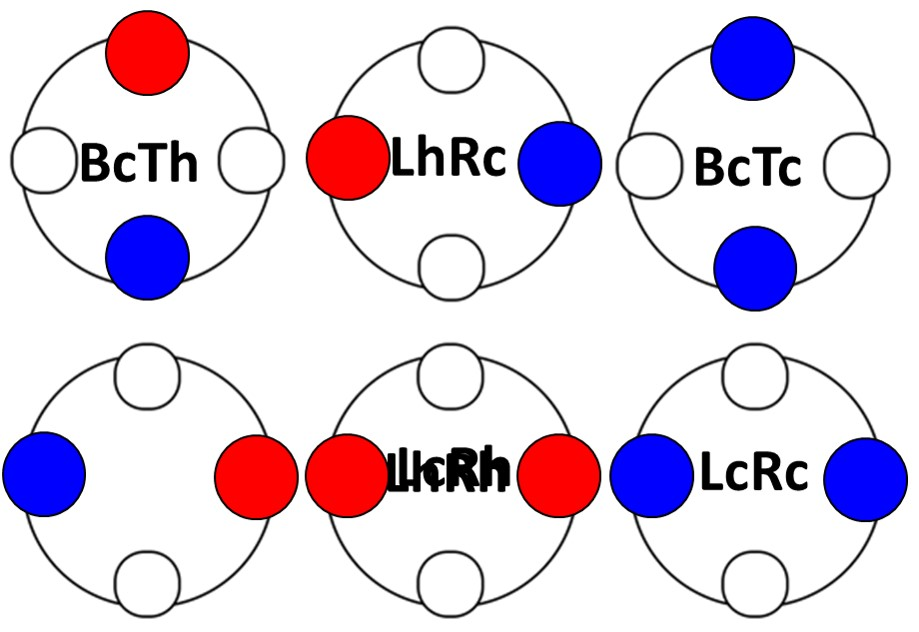
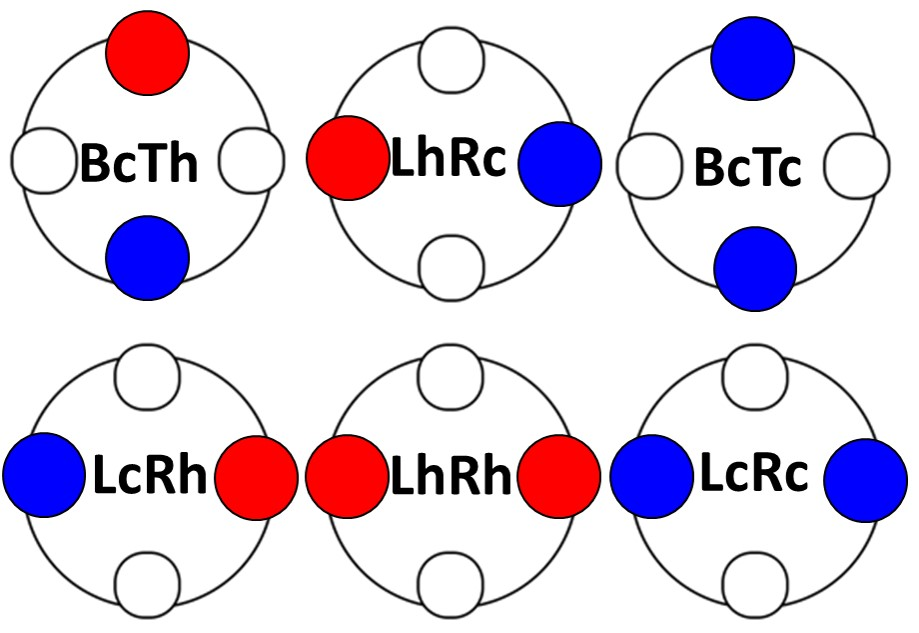
some new figures

Changed region(s): [[0.3961, 0.6915, 0.5789, 0.7816], [0.0914, 0.6915, 0.2437, 0.7816]]

diff --git a/elsarticle-template-num_simon_20180201.tex b/elsarticle-template-num_simon_20180201.tex
@@ -389,9 +389,9 @@ In our design, each element in a neighboring or opposite pair could be triggered
 \begin{figure}[tp]
   \centering
   %\subfigure\cite{]{\label{fig:fold1}\includegraphics[width=0.45\textwidth]{images/study_setup.png}}
-  \includegraphics[width=0.9\columnwidth]{img/fig9.pdf}
+  \includegraphics[width=0.9\columnwidth]{img/newNeighborPatterns.jpg}
   %\subfigure\cite{]{\label{fig:fold2}\includegraphics[width=0.45\textwidth]{images/wo_assembly.png}}
-  \caption{Patterns (with names) for neighboring TECs, applied on the Top+Right and the Bottom+Left TECs. Red: hot; Blue: cold; White: neutral.}
+  \caption{Patterns (with names) for neighboring TECs. Red: hot; Blue: cold.}
   \label{fig:9}
 \end{figure}
 
@@ -440,7 +440,7 @@ Fig.~\ref{fig:11} shows the descriptive result of the average identification acc
 \begin{figure}[tp]
   \centering
   %\subfigure\cite{]{\label{fig:fold1}\includegraphics[width=0.45\textwidth]{images/study_setup.png}}
-  \includegraphics[width=0.9\columnwidth]{img/fig11.png}
+  \includegraphics[width=\columnwidth]{img/confusionTableNewNeighbor.png}
   %\subfigure\cite{]{\label{fig:fold2}\includegraphics[width=0.45\textwidth]{images/wo_assembly.png}}
   \caption{Confusion table for the neighboring thermal patterns. Columns represent stimulated pattern and rows the participants' input.}
   \label{fig:11}
@@ -461,7 +461,7 @@ We used the exact same apparatus and procedure as Experiment 1. The six patterns
 \begin{figure}[tp]
   \centering
   %\subfigure\cite{]{\label{fig:fold1}\includegraphics[width=0.45\textwidth]{images/study_setup.png}}
-  \includegraphics[width=0.9\columnwidth]{img/fig12.pdf}
+  \includegraphics[width=0.4\columnwidth]{img/newOppoNeighbor.jpg}
   %\subfigure\cite{]{\label{fig:fold2}\includegraphics[width=0.45\textwidth]{images/wo_assembly.png}}
   \caption{Patterns (with names) for opposite TECs, applied on the Top+Bottom and the Left+Right TECs. Red: hot; Blue: cold.}
   \label{fig:12}
@@ -481,7 +481,7 @@ Similar to the neighboring patterns, repeated measures ANOVA showed that there w
 \begin{figure}[tp]
   \centering
   %\subfigure\cite{]{\label{fig:fold1}\includegraphics[width=0.45\textwidth]{images/study_setup.png}}
-  \includegraphics[width=0.9\columnwidth]{img/fig13.png}
+  \includegraphics[width=0.5\columnwidth]{img/confusionTableOpposite.png}
   %\subfigure\cite{]{\label{fig:fold2}\includegraphics[width=0.45\textwidth]{images/wo_assembly.png}}
   \caption{Confusion table for the opposite thermal patterns. Columns represent stimulated pattern and rows the participants' input.}
   \label{fig:13}
